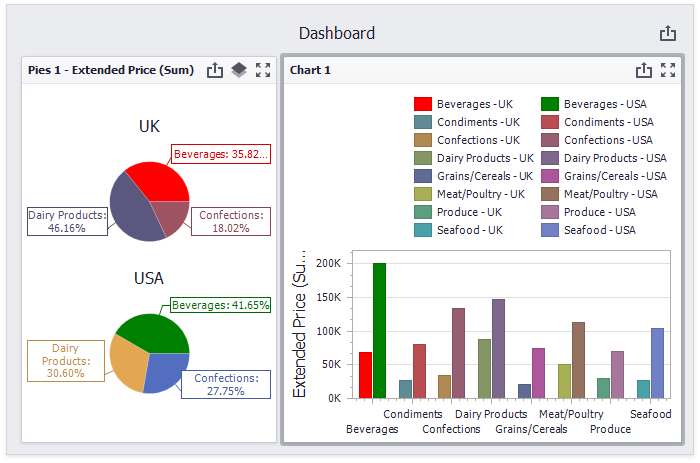
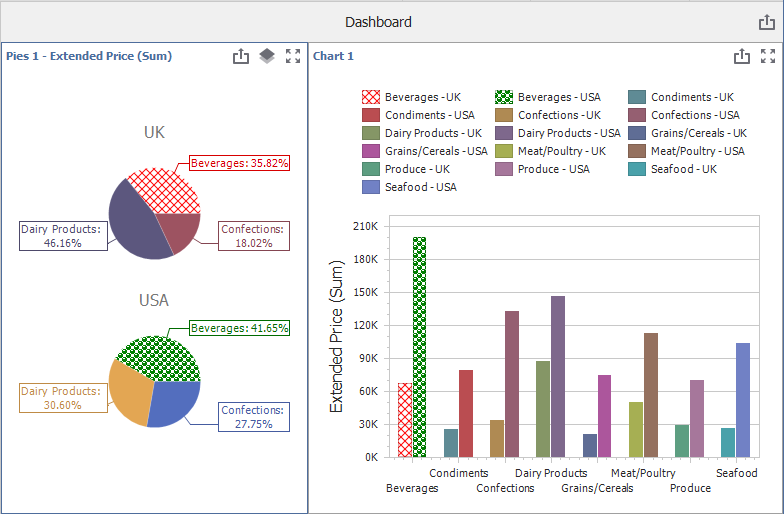
update example

Changed region(s): [[0.0, 0.0, 1.0, 1.0], [0.63, 0.5745, 0.75, 0.6652], [0.45, 0.4233, 0.51, 0.4536]]

diff --git a/CS/Dashboard_Coloring/Form1.cs b/CS/Dashboard_Coloring/Form1.cs
@@ -1,7 +1,8 @@
-using System.Data;
-using System.Drawing;
+using DevExpress.DashboardCommon;
+using DevExpress.Drawing;
 using DevExpress.XtraBars.Ribbon;
-using DevExpress.DashboardCommon;
+using System.Data;
+using System.Drawing;
 
 namespace Dashboard_Coloring {
     public partial class Form1 : RibbonForm {
@@ -30,21 +31,25 @@ namespace Dashboard_Coloring {
         }
 
         // Create color scheme entries to map dimension values, measures and colors.
-        private ColorSchemeEntry CreateColorSchemeEntry(DataRow colorSchemeRecord, 
-                                                        IDashboardDataSource dataSource, 
+        private ColorSchemeEntry CreateColorSchemeEntry(DataRow colorSchemeRecord,
+                                                        IDashboardDataSource dataSource,
                                                         bool includeMeasures) {
             DimensionDefinition categoryDefinition = new DimensionDefinition("CategoryName");
             DimensionDefinition countryDefinition = new DimensionDefinition("Country");
             MeasureDefinition priceDefinition = new MeasureDefinition("Extended Price");
 
             ColorSchemeEntry entry = new ColorSchemeEntry();
-            entry.DimensionKeys.Add(new ColorSchemeDimensionKey(categoryDefinition, 
+            entry.DimensionKeys.Add(new ColorSchemeDimensionKey(categoryDefinition,
                 colorSchemeRecord["CategoryName"]));
-            entry.DimensionKeys.Add(new ColorSchemeDimensionKey(countryDefinition, 
+            entry.DimensionKeys.Add(new ColorSchemeDimensionKey(countryDefinition,
                 colorSchemeRecord["Country"]));
-            if(includeMeasures)
+            if (includeMeasures)
                 entry.MeasureKey = new ColorSchemeMeasureKey(priceDefinition);
-            entry.ColorDefinition = new ColorDefinition((Color)colorSchemeRecord["color"]);
+            // Use a DashboardPaletteItem to define the color, a fill style (hatch), and line style.
+            entry.ColorDefinition = new ColorDefinition(new DashboardPaletteItem(
+                (Color)colorSchemeRecord["color"],
+                (DXHatchStyle)colorSchemeRecord["hatch"],
+                (DXDashStyle)colorSchemeRecord["line"]));
             entry.DataSource = dataSource;
             return entry;
         }
@@ -55,8 +60,10 @@ namespace Dashboard_Coloring {
             colorTable.Columns.Add("Country", typeof(string));
             colorTable.Columns.Add("measure", typeof(string));
             colorTable.Columns.Add("color", typeof(Color));
-            colorTable.Rows.Add("Beverages", "UK", "Extended Price", Color.Red);
-            colorTable.Rows.Add("Beverages", "USA", "Extended Price", Color.Green);
+            colorTable.Columns.Add("hatch", typeof(DXHatchStyle));
+            colorTable.Columns.Add("line", typeof(DXDashStyle));
+            colorTable.Rows.Add("Beverages", "UK", "Extended Price", Color.Red, DXHatchStyle.DiagonalCross, DXDashStyle.Dash);
+            colorTable.Rows.Add("Beverages", "USA", "Extended Price", Color.Green, DXHatchStyle.Sphere, DXDashStyle.Dot);
             return colorTable;
         }
     }

diff --git a/Readme.md b/Readme.md
@@ -5,15 +5,15 @@
 [![](https://img.shields.io/badge/💬_Leave_Feedback-feecdd?style=flat-square)](#does-this-example-address-your-development-requirementsobjectives)
 <!-- default badges end -->
 
-# Dashboard for WinForms - How to Customize a Dashboard Color Scheme
+# BI Dashboard for WinForms - Customize a Dashboard Color Scheme
 
-This example demonstrates how to customize a dashboard color scheme to change colors for the specified dimension values.
+This example customizes a dashboard color scheme to change colors and styles for the specified dimension values.
 
-The dashboard contains a [Pie](http://docs.devexpress.com/Dashboard/15262) and [Chart](http://docs.devexpress.com/Dashboard/14719) dashboard items whose dimension values and measures are colored by hue. 
+The dashboard contains a [Pie](http://docs.devexpress.com/Dashboard/15262) and [Chart](http://docs.devexpress.com/Dashboard/14719) dashboard items. Their dimension values and measures are colored by hue. 
 
-The [Dashboard.ColorScheme](https://docs.devexpress.com/Dashboard/DevExpress.DashboardCommon.Dashboard.ColorScheme) property provides access to a color scheme that contains [ColorSchemeEntry](https://docs.devexpress.com/Dashboard/DevExpress.DashboardCommon.ColorSchemeEntry) objects. New **ColorSchemeEntry** objects are created and added to the scheme.
+The [Dashboard.ColorScheme](https://docs.devexpress.com/Dashboard/DevExpress.DashboardCommon.Dashboard.ColorScheme) property provides access to a color scheme that contains [ColorSchemeEntry](https://docs.devexpress.com/Dashboard/DevExpress.DashboardCommon.ColorSchemeEntry) objects. New `ColorSchemeEntry` objects are created and added to the scheme.
 
-![screenshot](/images/screenshot.png)
+![WinForms Dashboard - Customized Color Scheme](/images/screenshot.png)
 
 ## Files to Review
 
